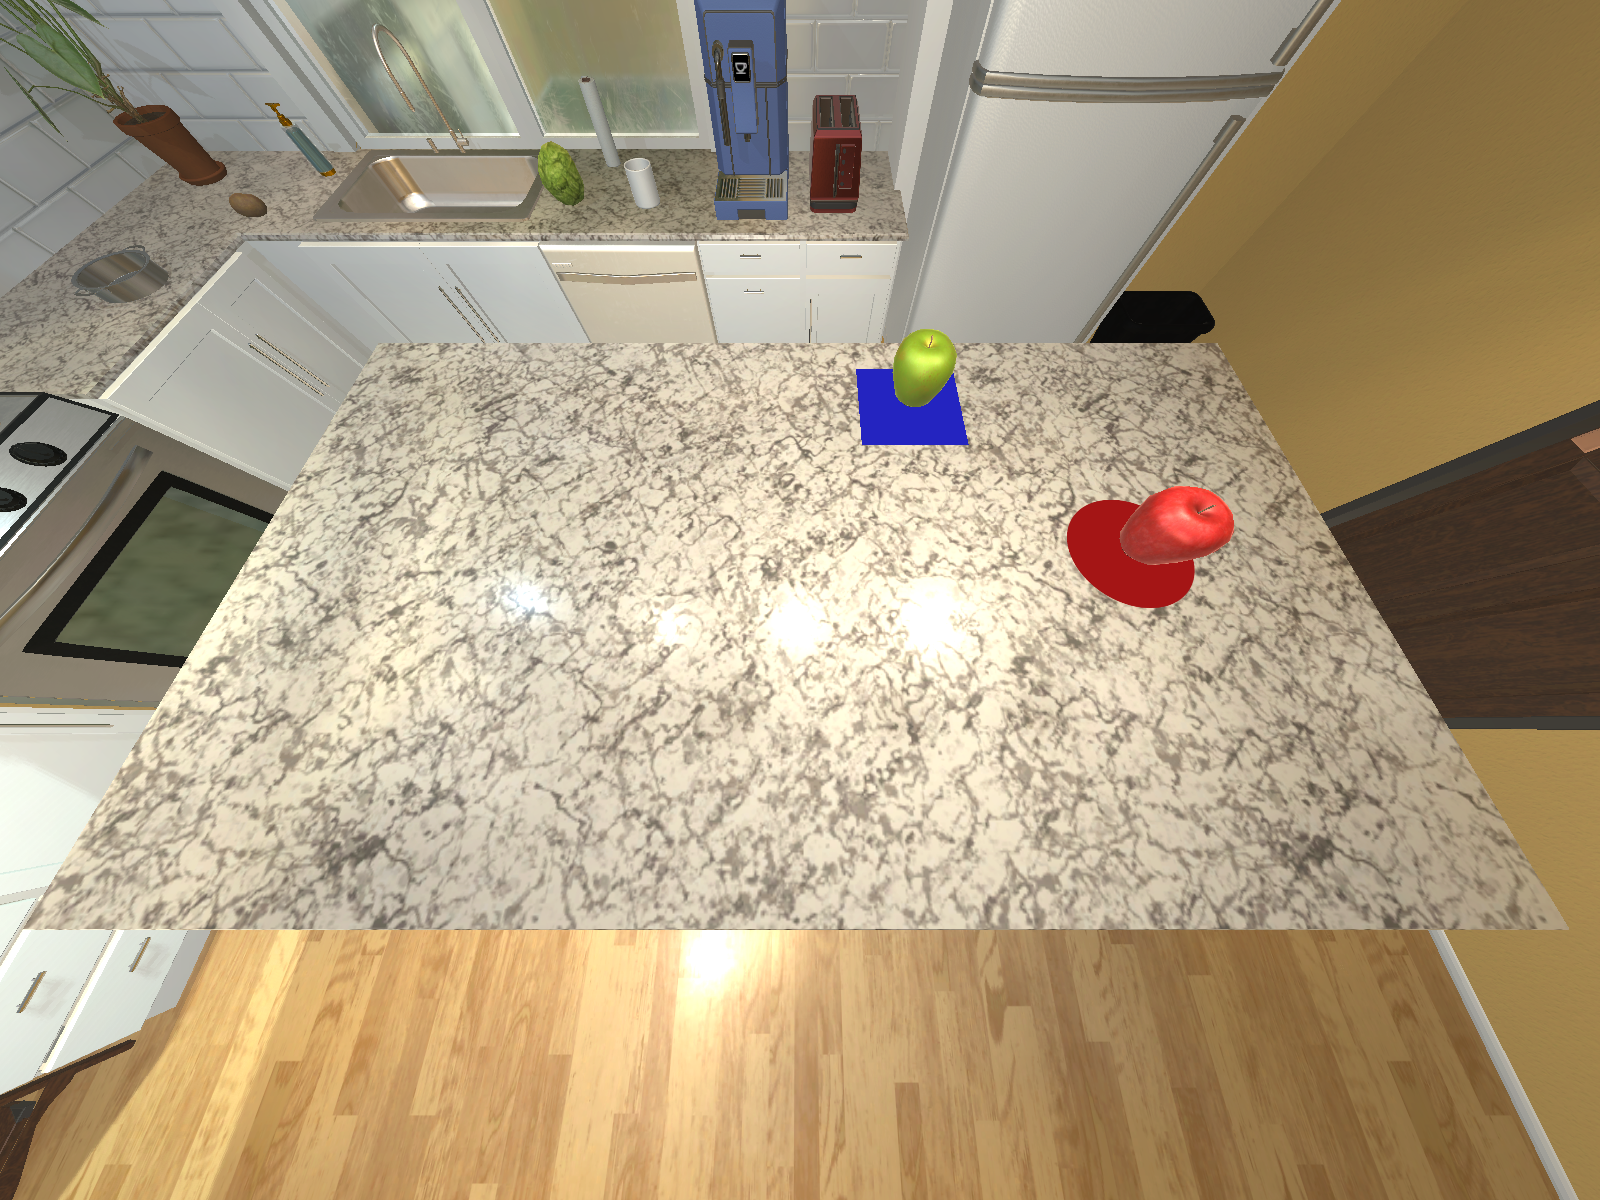
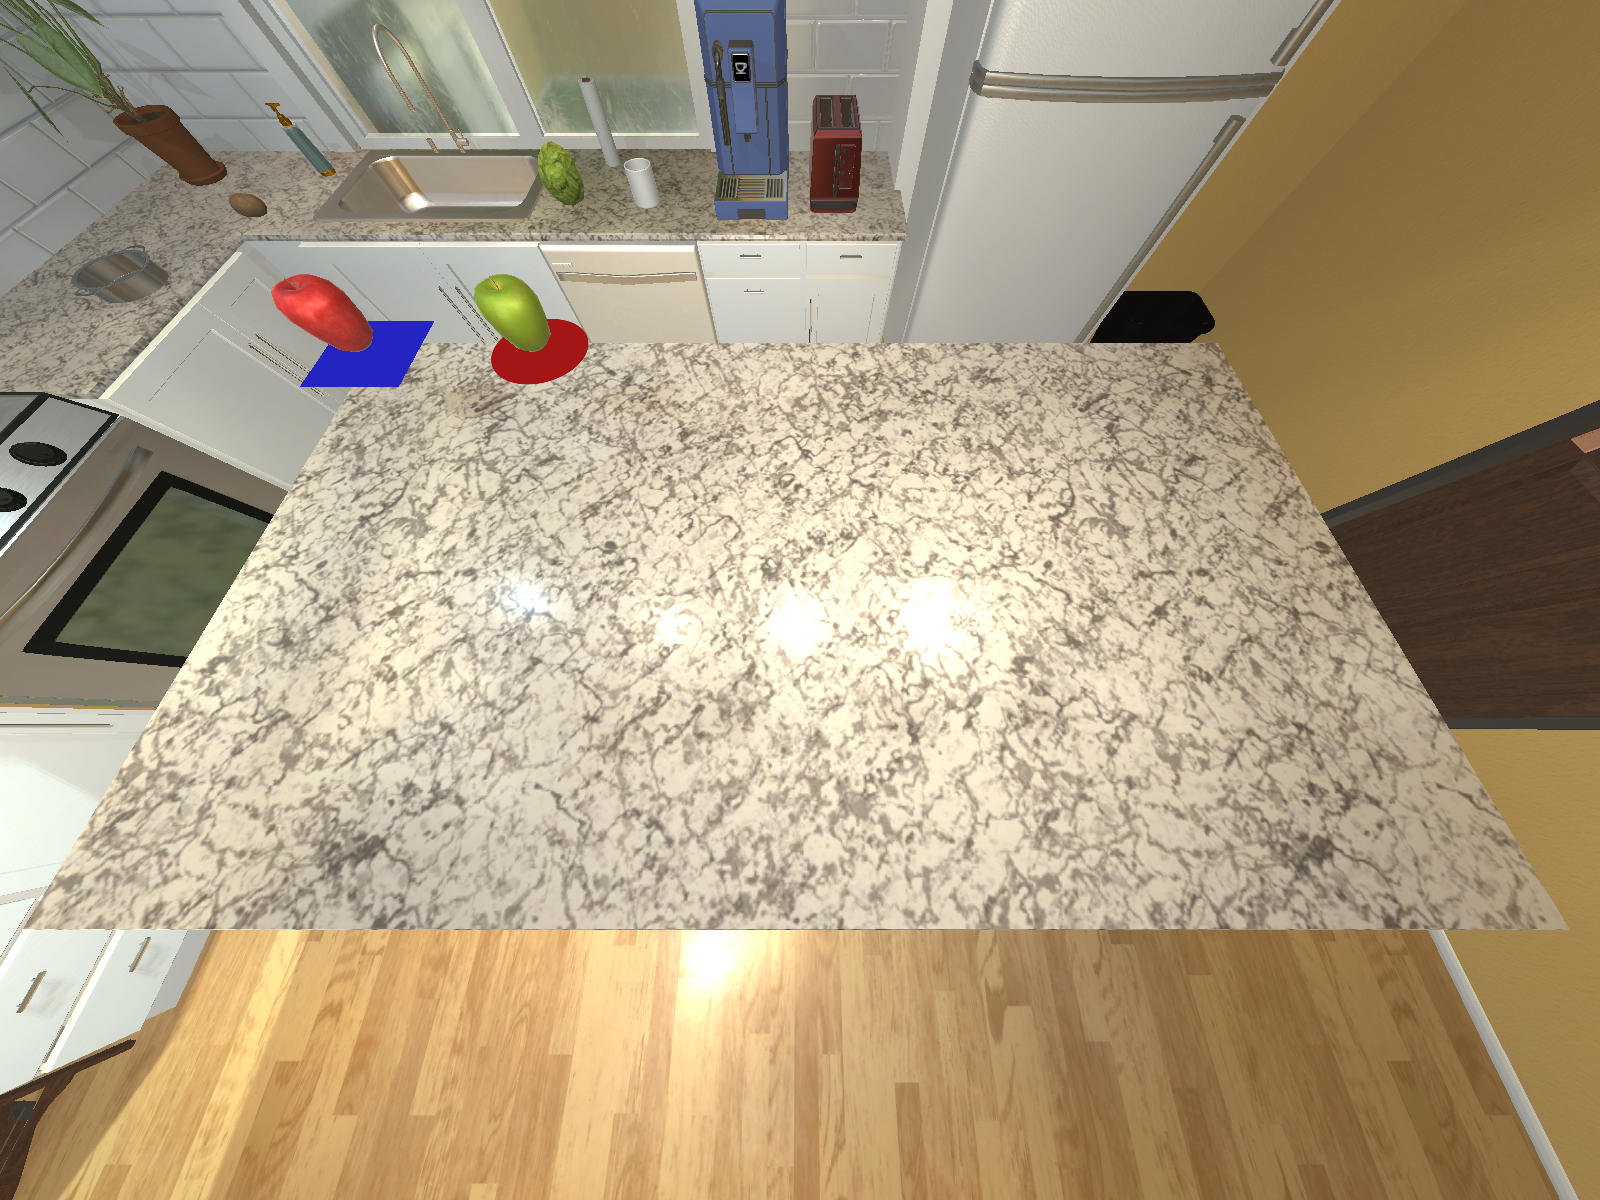
Working grid system

Changed region(s): [[0.1562, 0.2158, 0.375, 0.3392], [0.6562, 0.4008, 0.7812, 0.5242], [0.5312, 0.2775, 0.625, 0.37]]

diff --git a/main.py b/main.py
@@ -1,52 +1,45 @@
-from ai2thor.controller import Controller;
-import cv2;
+from ithor_controller import Ithor_Controller;
 import os;
 
 local_build_path = "../ai2thor/unity/builds/thor-Linux64-local/thor-Linux64-local";
-image_dir = "/Images/";
-
-def name_to_object_id(name, controller):
-    objs = controller.last_event.metadata['objects'];
-    named_objs = [o for o in objs if o['name'] == name];
-    if len(named_objs) == 1:
-        return named_objs[0]['objectId'];
-    else:
-        return None;
-
-def pickup(name,controller):
-    object_id = name_to_object_id(name, controller.last_event);
-    controller.step(action="PickupObject",objectId=object_id);
-    controller.step(action="Done");
+image_dir = "Images/";
 
 if __name__ == "__main__":
-    controller = Controller(height=1200,width=1600,local_executable_path=local_build_path,
-                            fieldOfView=120,snapToGrid=False,image_dir=image_dir);
-    controller.step(action="Teleport",position=dict(x=0.25,y=1,z=0),rotation=dict(x=0,y=270,z=0),horizon=70,forceAction=True)
+    #Set up controller and move the view to the table
+    ic = Ithor_Controller(height=1200,width=1600,local_exec_path=local_build_path,field_of_view=120,image_dir=image_dir);
+    #ic.init_scene(pos=[0.25,1,0], rot=270, horizon=70);
 
-    #Place blue square
-    controller.step(action="PlaceObjectAtPoint",objectId="Undefined|-00.47|+01.14|+05.42",position={'x': -0.3, 'y': 1.3, 'z': 0.2},rotation={'x':0,'y':0,'z':0})
-    controller.step(action="PlaceObjectAtPoint",objectId="Undefined|-00.47|+01.14|+05.42",position={'x': -0.3, 'y': 1.3, 'z': 0.2},rotation={'x':0,'y':0,'z':0})
-    #Place red circle
-    controller.step(action="PlaceObjectAtPoint",objectId="Undefined|-00.47|+01.14|+05.91",position={'x': 0, 'y': 1.3, 'z': 0.5},rotation={'x':0,'y':0,'z':0})
-    controller.step(action="PlaceObjectAtPoint",objectId="Undefined|-00.47|+01.14|+05.91",position={'x': 0, 'y': 1.3, 'z': 0.5},rotation={'x':0,'y':0,'z':0})
-    #Place green apple
-    controller.step(action="PlaceObjectAtPoint",objectId="Apple|-00.47|+01.14|+04.99",position={'x': 0.1, 'y': 1.3, 'z': -0.3},rotation={'x':0,'y':0,'z':0})
-    controller.step(action="PlaceObjectAtPoint",objectId="Apple|-00.47|+01.14|+04.99",position={'x': 0.1, 'y': 1.3, 'z': -0.3},rotation={'x':0,'y':0,'z':0})
-    #Place red apple
-    controller.step(action="PlaceObjectAtPoint",objectId="Apple|-00.47|+01.14|+04.52",position={'x': 0.3, 'y': 1.3, 'z': 0.6},rotation={'x':0,'y':0,'z':0})
-    controller.step(action="PlaceObjectAtPoint",objectId="Apple|-00.47|+01.14|+04.52",position={'x': 0.3, 'y': 1.3, 'z': 0.6},rotation={'x':0,'y':0,'z':0})
 
+    #ic.place_object('Square1', 0, 0);
+    #ic.place_object('Circle1', 1, 0);
+    #ic.place_object('Apple1', 2, 0);
+    #ic.place_object('Apple3', 3, 0);
+    
     #Update display and save start image
-    controller.step(action="Done");
-    cv2.imwrite(os.path.join(image_dir,"start.png"),controller.last_event.cv2img);
+    #ic.save_img(os.path.join(image_dir,"start.png"));
     
-    #Move green apple
-    controller.step(action="PlaceObjectAtPoint",objectId="Apple|-00.47|+01.14|+04.99",position={'x': -0.3, 'y': 1.3, 'z': 0.2},rotation={'x':0,'y':0,'z':0})
-    controller.step(action="PlaceObjectAtPoint",objectId="Apple|-00.47|+01.14|+04.99",position={'x': -0.3, 'y': 1.3, 'z': 0.2},rotation={'x':0,'y':0,'z':0})
-    #Move red apple
-    controller.step(action="PlaceObjectAtPoint",objectId="Apple|-00.47|+01.14|+04.52",position={'x': 0, 'y': 1.3, 'z': 0.5},rotation={'x':0,'y':0,'z':0})
-    controller.step(action="PlaceObjectAtPoint",objectId="Apple|-00.47|+01.14|+04.52",position={'x': 0, 'y': 1.3, 'z': 0.5},rotation={'x':0,'y':0,'z':0})
-    
+    #ic.place_object('Apple1', 0, 0);
+    #ic.place_object('Apple3', 1, 0);
+
     #Update display and save end image
-    controller.step(action="Done")
-    cv2.imwrite(os.path.join(image_dir,"end.png"),controller.last_event.cv2img);
+    #ic.controller.step(action="Done")
+    #ic.save_img(os.path.join(image_dir,"end.png"));
+    
+    #for x in range(6):
+    #    for y in range(3):
+    #        ic.place_object('Square3',x,y,True);
+    #        ic.place_object('Apple1', x, y,False);
+    #        ic.save_img(os.path.join(image_dir,"{}_{}.png".format(x,y)))
+            
+
+    import cv2;
+    event = ic.controller.step(action="AddThirdPartyCamera", position={'x': 1.2, 'y': 2.03, 'z': -0.026},rotation={'x': 45.93, 'y': -90, 'z': 0},orthographic=False,fieldOfView=60);
+
+    
+    for x in range(6):
+        for y in range(3):
+            ic.place_object('Square3',x,y,True);
+            ic.place_object('Apple1', x, y,False);
+            im_bgr = cv2.cvtColor(ic.controller.last_event.third_party_camera_frames[0], cv2.COLOR_RGB2BGR);
+            cv2.imwrite(os.path.join(image_dir,"{}_{}.png".format(x,y)),im_bgr);
+    ic.controller.stop();

diff --git a/ithor_controller.py b/ithor_controller.py
@@ -1,0 +1,53 @@
+#!/usr/bin/env python3
+# -*- coding: utf-8 -*-
+"""
+Created on Mon Feb 13 10:47:11 2023
+
+@author: dan
+"""
+
+from ai2thor.controller import Controller;
+from table import Table;
+import cv2;
+
+class Ithor_Controller:
+    
+    def __init__(self,height,width,local_exec_path,field_of_view,image_dir):
+        self.controller = Controller(height=height,
+                                width=width,
+                                local_executable_path=local_exec_path,
+                                fieldOfView=field_of_view,
+                                snapToGrid=False);
+        self.table = Table();
+    
+    def init_scene(self,pos,rot,horizon):
+        self.controller.step(action="Teleport",
+                             position=dict(x=pos[0],y=pos[1],z=pos[2]),
+                             rotation=dict(x=0,y=rot,z=0),
+                             horizon=horizon,
+                             forceAction=True);
+        
+    def name_to_object_id(self,name):
+        objs = self.controller.last_event.metadata['objects'];
+        named_objs = [o for o in objs if o['name'] == name];
+        if len(named_objs) == 1:
+            return named_objs[0]['objectId'];
+        else:
+            return None;
+        
+    def pickup(self,name):
+        object_id = self.name_to_object_id(name, self.controller.last_event);
+        self.controller.step(action="PickupObject",objectId=object_id);
+        
+    def place_object(self,name,x,y,mat=True):
+        pos = self.table.grid_to_coords(x,y,mat);
+        print(pos);
+        object_id = self.name_to_object_id(name);
+        self.controller.step(action="PlaceObjectAtPoint",
+                             objectId=object_id,
+                             position=pos,
+                             rotation={'x':0,'y':0,'z':0});
+        print(self.controller.last_event);
+        
+    def save_img(self,path):
+        cv2.imwrite(path,self.controller.last_event.cv2img);

diff --git a/table.py b/table.py
@@ -1,0 +1,34 @@
+#!/usr/bin/env python3
+# -*- coding: utf-8 -*-
+"""
+Created on Mon Feb 13 12:46:11 2023
+
+@author: dan
+"""
+TOP_MARGIN = 0.035;
+SIDE_MARGIN = 0.0075;
+VERTICAL_PAD = 0.03;
+HORIZONTAL_PAD = 0.007;
+SLOT_DIM = 0.33;
+LEFT_EDGE = -0.001 - (2.03 / 2);
+TOP_EDGE = -0.079 - (1.12 / 2);
+VERTICAL_SLOTS = 3;
+HORIZONTAL_SLOTS = 6;
+TABLE_HEIGHT = 1.6;
+OBJECT_HEIGHT = 1.3;
+ 
+
+class Table:
+    
+    def grid_to_coords(self,x,y,mat=True):
+        #X is vertical position, Y is height, Z is horizontal position
+        if x > HORIZONTAL_SLOTS or x < 0:
+            return None;
+        if y > VERTICAL_SLOTS or y < 0:
+            return None;
+        X = TOP_EDGE + TOP_MARGIN + y*SLOT_DIM + y*VERTICAL_PAD + (SLOT_DIM / 2);
+        Y = TABLE_HEIGHT if mat else OBJECT_HEIGHT;
+        Z = LEFT_EDGE + SIDE_MARGIN + x*SLOT_DIM + x*HORIZONTAL_PAD + (SLOT_DIM / 2);
+        return {'x': X, 'y': Y, 'z': Z};
+    
+    
